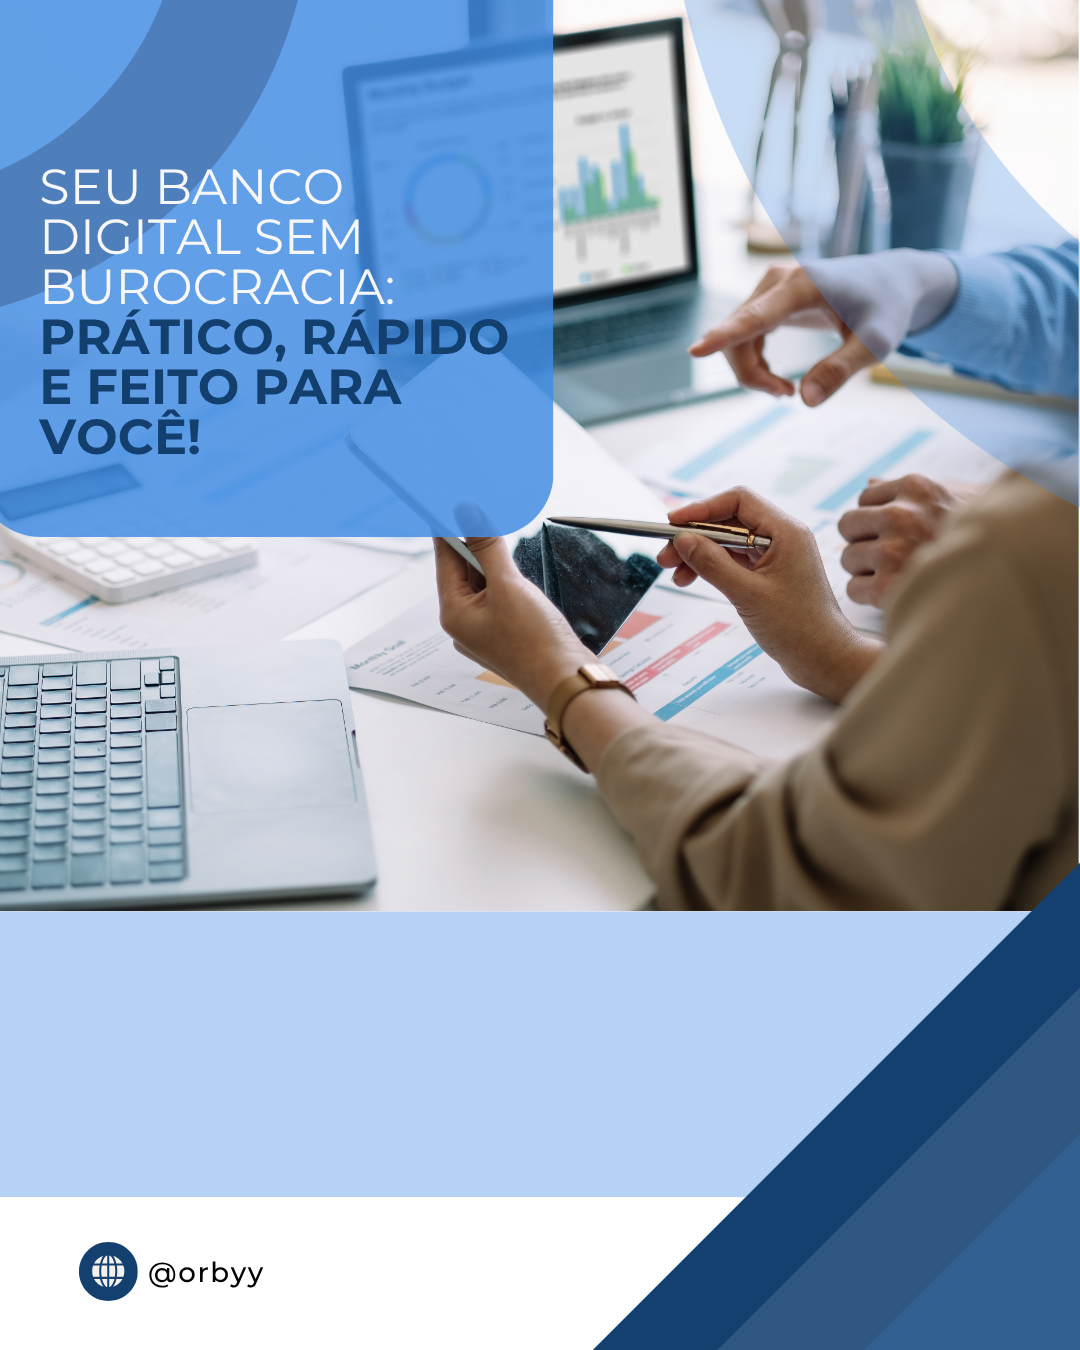
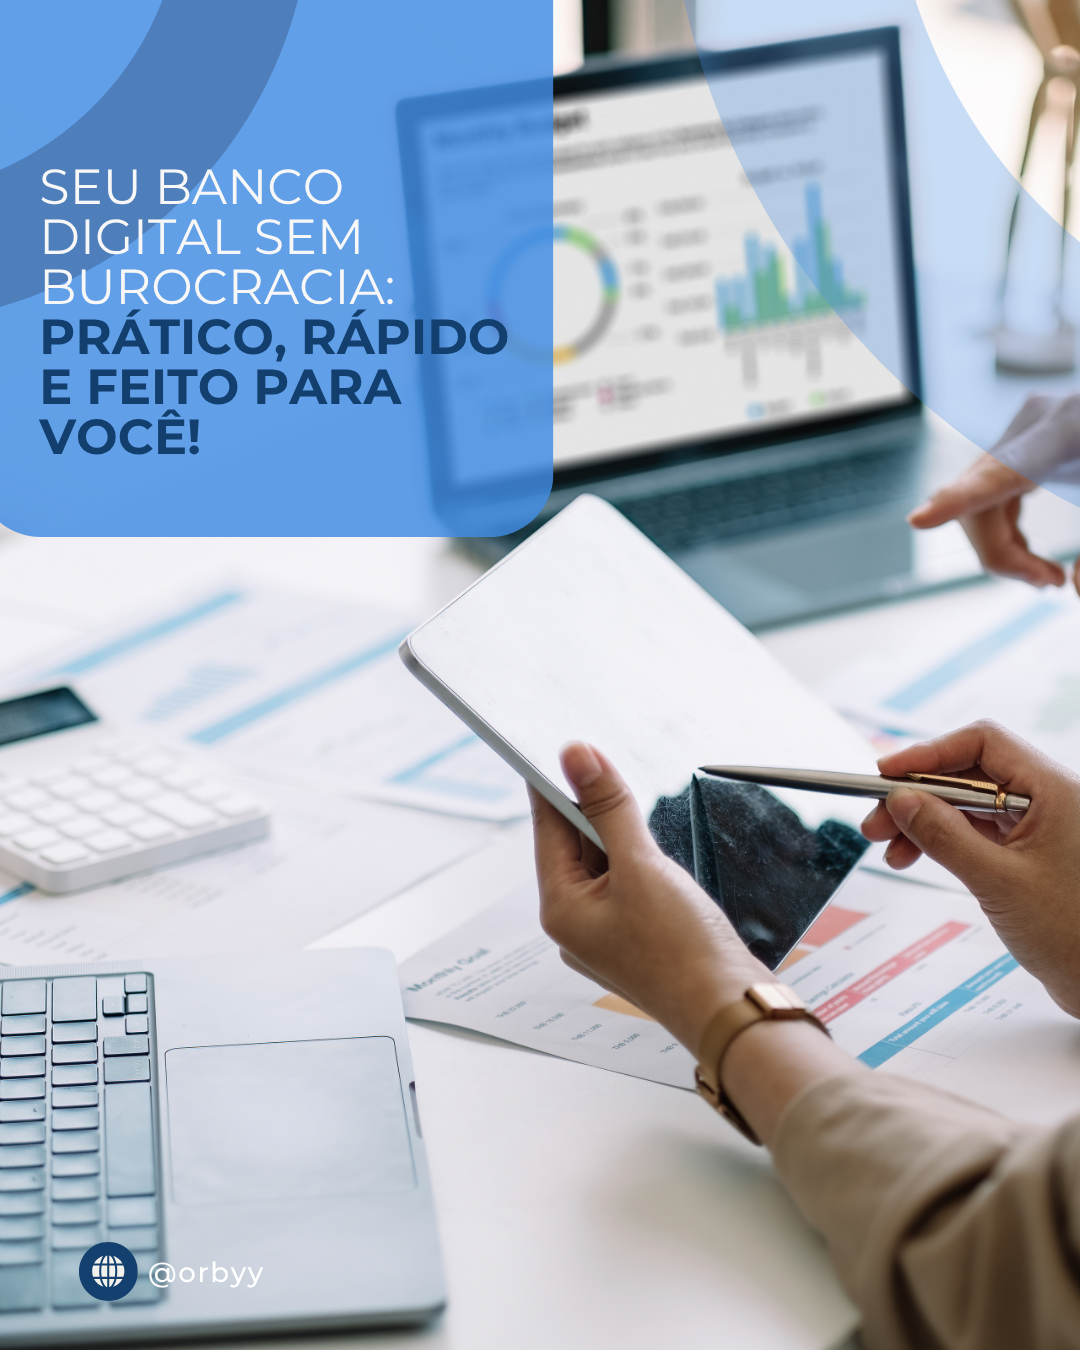
adicionando e atualizando fotos

diff --git a/index.html b/index.html
@@ -49,9 +49,9 @@
         <div class="posts">
 
 
-            <img src="src/img/pix.png" alt="Post 3">
+            <img src="src/img/transferencias.png" alt="Post 3">
             <img src="src/img/seubanco.png" alt="">
-            <img src="src/img/transferencias.png" alt="">
+            <img src="src/img/otc2.png" alt="">
             <img src="src/img/otc.png" alt="">
             <img src="src/img/post_link_pagamento.png" alt="Post 3">
             <img src="src/img/seguranca_confianca.png" alt="">
